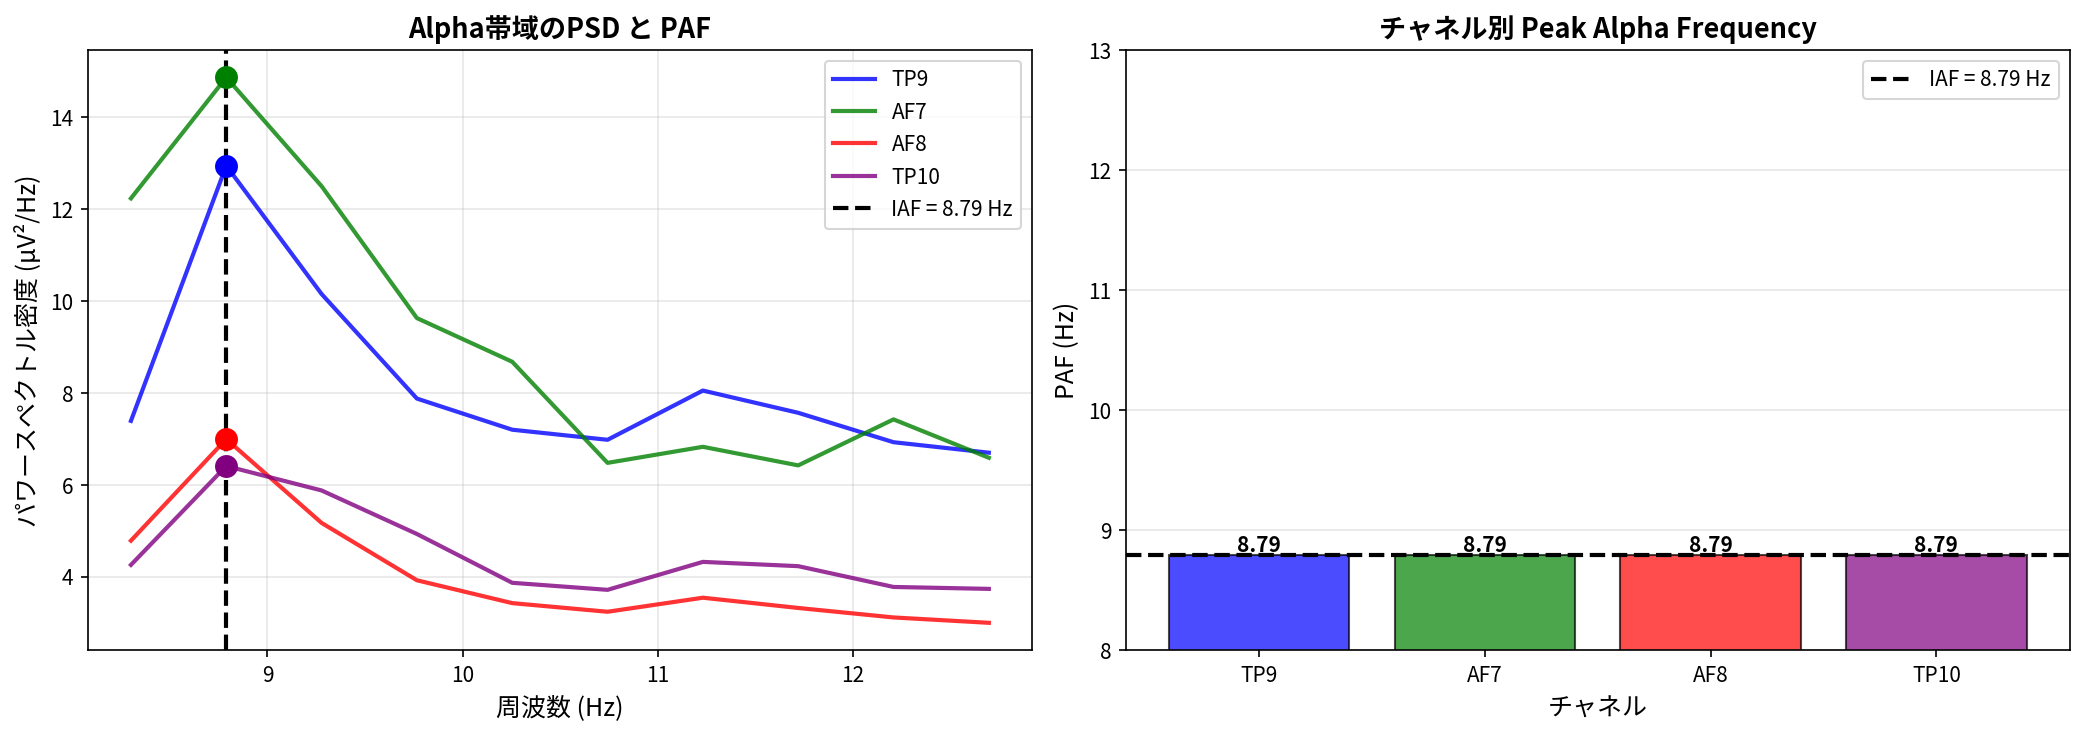
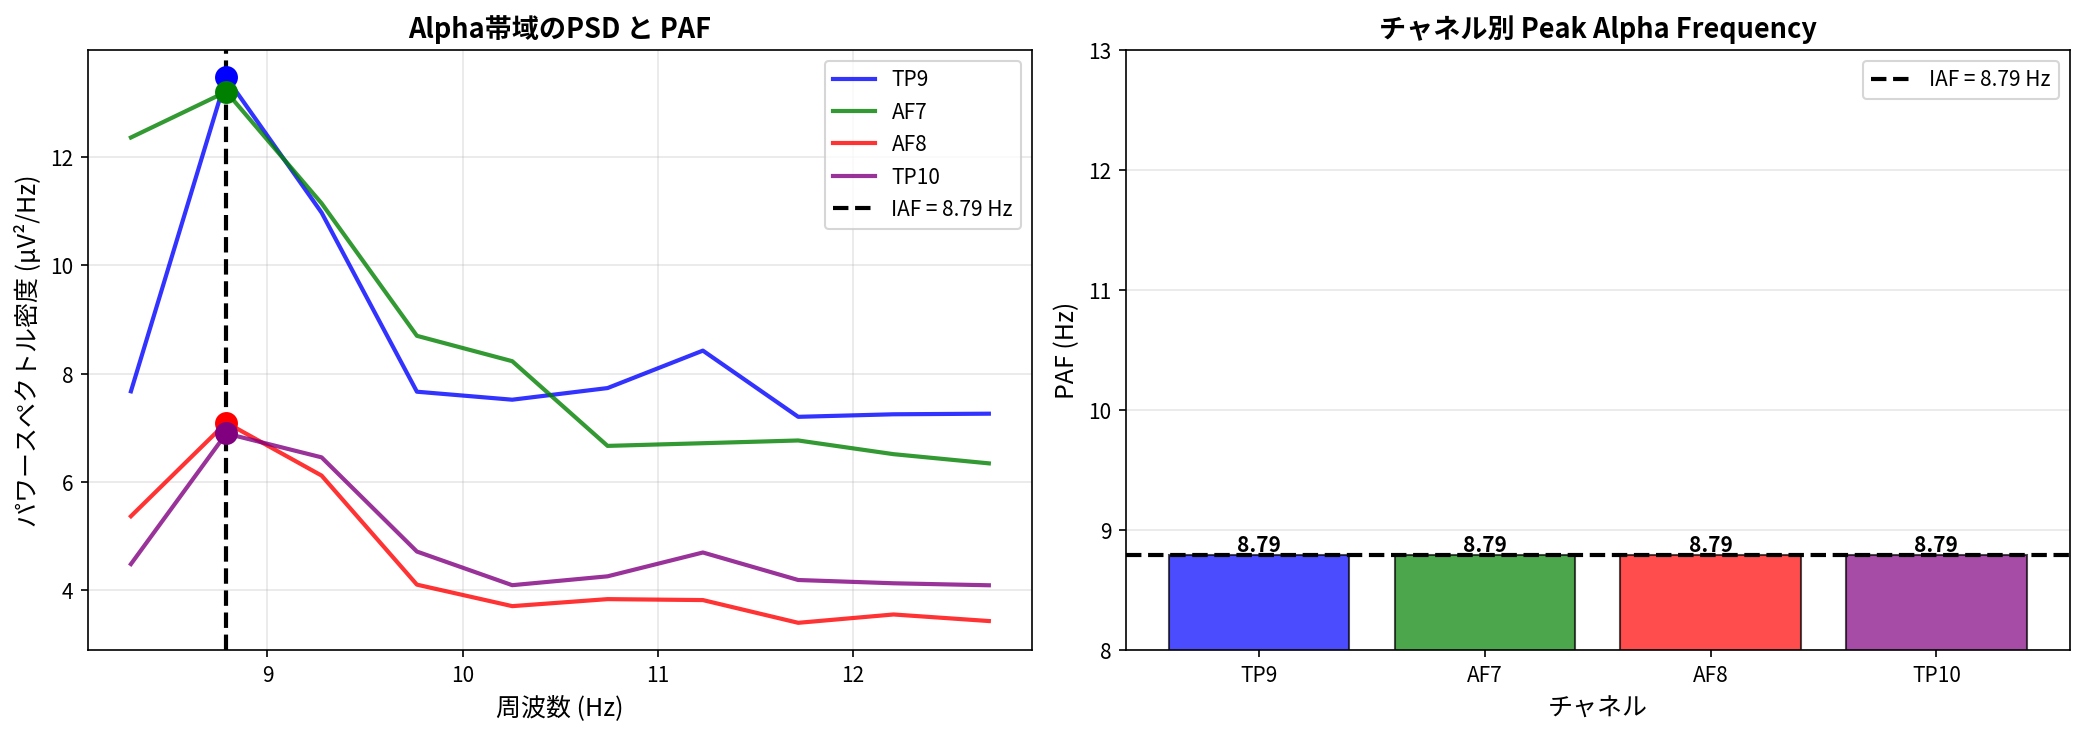
HSI改良

diff --git a/lib/sensors/eeg/preprocessing.py b/lib/sensors/eeg/preprocessing.py
@@ -13,14 +13,26 @@ warnings.filterwarnings('ignore')
 mne.set_log_level('ERROR')
 
 
-def filter_signal_quality(df, require_headband=True, require_all_good=True):
-    """HeadBandOn/HSIの品質に基づいてデータをフィルタ"""
+def filter_eeg_quality(df, require_all_good=False):
+    """
+    EEG固有のHSI品質に基づいてデータをフィルタ
 
+    Parameters
+    ----------
+    df : pd.DataFrame
+        Mind Monitorデータフレーム（HeadBandOnで事前フィルタ済みを推奨）
+    require_all_good : bool, default False
+        True: 全HSIチャネルが1.0 (Good) の行のみ抽出（高精度分析用）
+        False: 全HSIチャネルが≤2.0 (Good/Medium) の行を抽出（日常分析用、推奨）
+
+    Returns
+    -------
+    filtered : pd.DataFrame
+        フィルタ後のデータフレーム
+    quality_mask : pd.Series
+        品質マスク（Trueが良好な行）
+    """
     quality_mask = pd.Series(True, index=df.index)
-
-    if require_headband and 'HeadBandOn' in df.columns:
-        headband_on = pd.to_numeric(df['HeadBandOn'], errors='coerce') == 1
-        quality_mask &= headband_on.fillna(False)
 
     hsi_cols = [c for c in df.columns if c.startswith('HSI_')]
     if hsi_cols:
@@ -47,7 +59,7 @@ def prepare_mne_raw(df, sfreq=None):
     Parameters
     ----------
     df : pd.DataFrame
-        Mind Monitorデータフレーム（RAW_*列を含む）
+        Mind Monitorデータフレーム（RAW_*列を含む、HeadBandOnで事前フィルタ済みを推奨）
     sfreq : float, optional
         サンプリングレート（Noneの場合は自動推定）
 
@@ -66,7 +78,7 @@ def prepare_mne_raw(df, sfreq=None):
     if not raw_cols:
         return None
 
-    df_filtered, _ = filter_signal_quality(df)
+    df_filtered, _ = filter_eeg_quality(df)
 
     # 数値変換と前処理
     numeric = df_filtered[raw_cols].apply(pd.to_numeric, errors='coerce')

diff --git a/lib/loaders/mind_monitor.py b/lib/loaders/mind_monitor.py
@@ -13,21 +13,22 @@ from pathlib import Path
 from ..sensors.eeg.constants import DEFAULT_SFREQ
 
 
-def load_mind_monitor_csv(csv_path, quality_filter=True):
+def load_mind_monitor_csv(csv_path, filter_headband=True):
     """
-    Mind Monitor CSVファイルを読み込む
+    Mind Monitor CSVファイルを読み込む（全センサー共通の基本前処理）
 
     Mind Monitor固有の仕様:
     - TimeStampカラムの存在を前提
-    - HeadBandOnによる品質フィルタリング
+    - HeadBandOnによるデバイス装着状態フィルタリング（全センサー共通）
     - Time_sec相対時間カラムの自動追加
 
     Parameters
     ----------
     csv_path : str or Path
         CSVファイルのパス
-    quality_filter : bool
-        True の場合、HeadBandOn=1 のデータのみ抽出
+    filter_headband : bool
+        True の場合、HeadBandOn=1（装着中）のデータのみ抽出
+        全センサー（EEG, Optics, Heart Rate等）に共通のフィルタ
 
     Returns
     -------
@@ -42,8 +43,8 @@ def load_mind_monitor_csv(csv_path, quality_filter=True):
     # 相対時間 (秒) を計算
     df['Time_sec'] = (df['TimeStamp'] - df['TimeStamp'].iloc[0]).dt.total_seconds()
 
-    # 品質フィルタリング
-    if quality_filter:
+    # HeadBandOnフィルタリング（全センサー共通）
+    if filter_headband:
         df = df[df['HeadBandOn'] == 1].copy()
 
     return df

diff --git a/issues/003_improve_daily_report/generate_report.py b/issues/003_improve_daily_report/generate_report.py
@@ -27,7 +27,7 @@ from lib import (
     load_mind_monitor_csv,
     calculate_band_statistics,
     prepare_mne_raw,
-    filter_signal_quality,
+    filter_eeg_quality,
     calculate_psd,
     calculate_spectrogram,
     calculate_band_ratios,
@@ -323,7 +323,7 @@ def run_full_analysis(data_path, output_dir):
 
     # データ読み込み
     print(f'Loading: {data_path}')
-    df = load_mind_monitor_csv(data_path, quality_filter=False)
+    df = load_mind_monitor_csv(data_path, filter_headband=False)
 
     # データ情報を記録
     results['data_info'] = {
@@ -369,7 +369,7 @@ def run_full_analysis(data_path, output_dir):
 
     # バンドパワー時系列（Museアプリ風）
     print('プロット中: バンドパワー時系列...')
-    df_quality, quality_mask = filter_signal_quality(df)
+    df_quality, quality_mask = filter_eeg_quality(df)
     df_for_band = df_quality if not df_quality.empty else df
     plot_band_power_time_series(
         df_for_band,

diff --git a/lib/sensors/eeg/__init__.py b/lib/sensors/eeg/__init__.py
@@ -7,7 +7,7 @@ Muse脳波データの周波数バンド解析、PSD、PAF計算、可視化
 from .constants import FREQ_BANDS, DEFAULT_SFREQ
 
 # 前処理
-from .preprocessing import prepare_mne_raw, filter_signal_quality
+from .preprocessing import prepare_mne_raw, filter_eeg_quality
 
 # 周波数解析
 from .frequency import calculate_psd, calculate_spectrogram
@@ -49,7 +49,7 @@ __all__ = [
     'DEFAULT_SFREQ',
     # 前処理
     'prepare_mne_raw',
-    'filter_signal_quality',
+    'filter_eeg_quality',
     # 周波数解析
     'calculate_psd',
     'calculate_spectrogram',

diff --git a/lib/__init__.py b/lib/__init__.py
@@ -33,7 +33,7 @@ from .visualization import (
 from .sensors.eeg import (
     calculate_band_statistics,
     prepare_mne_raw,
-    filter_signal_quality,
+    filter_eeg_quality,
     calculate_psd,
     calculate_spectrogram,
     calculate_band_ratios,
@@ -85,7 +85,7 @@ __all__ = [
     'get_eeg_data',
     'calculate_band_statistics',
     'prepare_mne_raw',
-    'filter_signal_quality',
+    'filter_eeg_quality',
     'calculate_psd',
     'calculate_spectrogram',
     'calculate_band_ratios',

diff --git a/lib/sensors/__init__.py b/lib/sensors/__init__.py
@@ -27,7 +27,7 @@ from .eeg import (
     DEFAULT_SFREQ,
     calculate_band_statistics,
     prepare_mne_raw,
-    filter_signal_quality,
+    filter_eeg_quality,
     calculate_psd,
     calculate_spectrogram,
     calculate_band_ratios,
@@ -58,7 +58,7 @@ __all__ = [
     'DEFAULT_SFREQ',
     'calculate_band_statistics',
     'prepare_mne_raw',
-    'filter_signal_quality',
+    'filter_eeg_quality',
     'calculate_psd',
     'calculate_spectrogram',
     'calculate_band_ratios',

diff --git a/lib/eeg.py b/lib/eeg.py
@@ -16,7 +16,7 @@ from .sensors.eeg.frontal_theta import (
     FrontalThetaResult,
     calculate_frontal_theta,
 )
-from .sensors.eeg.preprocessing import filter_signal_quality
+from .sensors.eeg.preprocessing import filter_eeg_quality
 
 if TYPE_CHECKING:
     import mne

diff --git a/issues/003_improve_daily_report/REPORT.md b/issues/003_improve_daily_report/REPORT.md
@@ -1,6 +1,6 @@
 # Muse脳波データ分析レポート
 
-- **生成日時**: 2025-10-31 21:14:26
+- **生成日時**: 2025-10-31 21:40:20
 - **データファイル**: `mindMonitor_2025-10-31--16-04-01_7679417574001279836.csv`
 - **記録時間**: 2025-10-31 16:04:02 ~ 2025-10-31 16:32:24
 - **計測時間**: 28.4 分
@@ -35,7 +35,7 @@
 
 ### データ品質
 
-- **良好データ使用率**: 93.0%
+- **良好データ使用率**: 95.1%
 
 | 指標               |   外れ値数 |   外れ値割合 (%) |   変動係数 (%) |
 |:-------------------|-----------:|-----------------:|---------------:|
@@ -51,14 +51,14 @@
 
 | 指標               |      値 | 単位   |
 |:-------------------|--------:|:-------|
-| 平均値             |  18.972 | μV²    |
-| 中央値             |   9.433 | μV²    |
-| 標準偏差           |  30.615 | μV²    |
-| 前半平均           |  29.874 | μV²    |
-| 後半平均           |   7.905 | μV²    |
-| 増加率 (後半/前半) | -73.539 | %      |
+| 平均値             |  14.948 | μV²    |
+| 中央値             |   9.192 | μV²    |
+| 標準偏差           |  16.005 | μV²    |
+| 前半平均           |  22.453 | μV²    |
+| 後半平均           |   7.442 | μV²    |
+| 増加率 (後半/前半) | -66.854 | %      |
 
-セッション後半の平均Fmθは前半比で **-73.5%** 変化しました。
+セッション後半の平均Fmθは前半比で **-66.9%** 変化しました。
 
 ### Peak Alpha Frequency (PAF)
 
@@ -70,10 +70,10 @@
 
 | チャネル   |   PAF (Hz) |   Power (μV²/Hz) |
 |:-----------|-----------:|-----------------:|
-| TP9        |       8.79 |            12.94 |
-| AF7        |       8.79 |            14.86 |
-| AF8        |       8.79 |             6.99 |
-| TP10       |       8.79 |             6.41 |
+| TP9        |       8.79 |            13.47 |
+| AF7        |       8.79 |            13.20 |
+| AF8        |       8.79 |             7.10 |
+| TP10       |       8.79 |             6.90 |
 
 ### バンド比率指標
 
@@ -108,10 +108,10 @@
 
 | セグメント   | 時間帯        |   Fmθ平均 (μV²) |   Alpha平均 (μV²) |   Beta平均 (μV²) |   θ/α比 | 備考          | ピーク   |
 |:-------------|:--------------|----------------:|------------------:|-----------------:|--------:|:--------------|:---------|
-| セグメント1  | 16:04 - 16:09 |          18.928 |             0.931 |            0.279 |   0.095 |               | ★        |
-| セグメント2  | 16:09 - 16:14 |         nan     |             0.858 |            0.217 |   0.070 | Fmθデータ不足 |          |
-| セグメント3  | 16:14 - 16:19 |         nan     |             0.880 |            0.121 |   0.061 | Fmθデータ不足 |          |
-| セグメント4  | 16:19 - 16:24 |         nan     |             0.830 |            0.108 |  -0.018 | Fmθデータ不足 |          |
-| セグメント5  | 16:24 - 16:29 |         nan     |             0.794 |            0.084 |  -0.041 | Fmθデータ不足 |          |
-| セグメント6  | 16:29 - 16:32 |         nan     |             0.703 |            0.042 |  -0.233 | Fmθデータ不足 |          |
+| セグメント1  | 16:04 - 16:09 |          14.894 |             0.924 |            0.280 |   0.102 |               | ★        |
+| セグメント2  | 16:09 - 16:14 |         nan     |             0.856 |            0.221 |   0.072 | Fmθデータ不足 |          |
+| セグメント3  | 16:14 - 16:19 |         nan     |             0.879 |            0.120 |   0.061 | Fmθデータ不足 |          |
+| セグメント4  | 16:19 - 16:24 |         nan     |             0.820 |            0.107 |  -0.018 | Fmθデータ不足 |          |
+| セグメント5  | 16:24 - 16:29 |         nan     |             0.774 |            0.081 |  -0.042 | Fmθデータ不足 |          |
+| セグメント6  | 16:29 - 16:32 |         nan     |             0.653 |            0.039 |  -0.235 | Fmθデータ不足 |          |
 

diff --git a/docs/MIND_MONITOR_CSV_SPECIFICATION.md b/docs/MIND_MONITOR_CSV_SPECIFICATION.md
@@ -193,10 +193,16 @@
 |---------|------|-----|------|
 | `HeadBandOn` | ヘッドバンド装着状態 | `1` | 装着中（True） |
 |  |  | `0` | 未装着（False） |
-| `HSI_TP9` | TP9センサーの信号品質 | `1` | Good（良好） |
-| `HSI_AF7` | AF7センサーの信号品質 | `2` | Medium（普通） |
-| `HSI_AF8` | AF8センサーの信号品質 | `4` | Bad（不良） |
+| `HSI_TP9` | TP9センサーの信号品質 | `1.0` | Good（良好） |
+| `HSI_AF7` | AF7センサーの信号品質 | `2.0` | Medium（普通） |
+| `HSI_AF8` | AF8センサーの信号品質 | `4.0` | Bad（不良） |
 | `HSI_TP10` | TP10センサーの信号品質 |  |  |
+
+**補足:**
+- HSI (Horseshoe Signal Indicator) は各センサーの接触品質を示す
+- 実データでは浮動小数点数 (`1.0`, `2.0`, `4.0`) で記録される
+- `HeadBandOn` は整数 (`0`, `1`) で記録される
+- 品質フィルタリングでは通常、HSI全チャネルが `1.0` (Good) または `≤2.0` (Good/Medium) の行を使用
 
 **HSI (Horseshoe Indicator)**:
 - 電極接触の品質を示す
